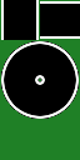
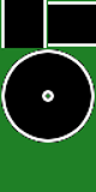
shields up

diff --git a/Main.js b/Main.js
@@ -105,8 +105,9 @@ Main.ROTATION_SPEED = 3.6;
 Main.MAX_FORWARD_SPEED = 2.1;
 Main.LEVEL_WIDTH = 20;
 Main.LEVEL_HEIGHT = 15;
-Main.LEVEL_TILE_WIDTH = 40;
-Main.LEVEL_TILE_HEIGHT = 40;
+Main.LEVEL_TILE_WIDTH = 48;
+Main.LEVEL_TILE_HEIGHT = 48;
+Main.ACCELERATION = 0.3;
 
 Main.STATE_WAIT = 0;
 Main.STATE_LAPS = 1;
@@ -136,22 +137,16 @@ Main.prototype.gameLoop = function(delta) {
     if (this.up.isDown) {
         this.car.play()
 
+        this.car.speed += Main.ACCELERATION;
         if (this.car.speed > this.car.max_forward_speed) {
-            // If we gained speed from some other means
-            // typically collision
-            this.car.speed -= 0.1;
-        } else {
-            this.car.speed += 1.15;
-            if (this.car.speed > this.car.max_forward_speed) {
-                this.car.speed = this.car.max_forward_speed;
-            }
+            this.car.speed = this.car.max_forward_speed;
         }
 
         if (this.left.isDown) {
-            this.car.angle = mod(this.car.angle - this.car.rotation_speed / delta, 360);
+            this.car.angle = mod(this.car.angle - this.car.rotation_speed, 360);
         }
         if (this.right.isDown) {
-            this.car.angle = mod(this.car.angle + this.car.rotation_speed / delta, 360);
+            this.car.angle = mod(this.car.angle + this.car.rotation_speed, 360);
         }
     
     } else {
@@ -173,8 +168,10 @@ Main.prototype.gameLoop = function(delta) {
     });
 
     // brute force collision detection
-    let radius = 8;
+    let radius = 9;
     let radiusSquared = radius*radius;
+    let shieldSquared = (radius+2)*(radius+2);
+    let expectedDistance = radius+radius;
 
     for (let i = 0; i < this.computerCars.length; i++) {
         let carA = this.computerCars[i];
@@ -186,9 +183,9 @@ Main.prototype.gameLoop = function(delta) {
             let dy = carA.y - carB.y;
 
             let distanceSquared = dx*dx + dy*dy;
-            if (distanceSquared < (radiusSquared + radiusSquared)) {
-                // We have a collision
 
+            if (distanceSquared < (shieldSquared + shieldSquared)) {
+                // We have a collision
                 if (carB.bounding_circle == null) {    
                     var graphics = new PIXI.Graphics();
                     graphics.lineStyle(1, 0xffffff, 1);
@@ -204,7 +201,11 @@ Main.prototype.gameLoop = function(delta) {
                     this.stage.addChild(graphics);
                     carA.bounding_circle = graphics;
                 }
+            }
 
+            if (distanceSquared < (radiusSquared + radiusSquared)) {
+                // We have a collision
+    
                 // TODO Add a particle effect here
                 // Assume bounding circles have same size
                 // Then we only have to dvide by 2
@@ -212,19 +213,21 @@ Main.prototype.gameLoop = function(delta) {
                 var cpY = (carA.y + carB.y) / 2;
 
                 var distance = Math.sqrt(distanceSquared);
-                var ratio = distance / (radiusSquared);
+                var delta_distance = (expectedDistance - distance);
+                var ratio =  delta_distance / expectedDistance;
+                ratio = 1;
 
                 // Move them apart
-                carA.x -= distance * ratio * 0.5;
-                carA.y -= distance * ratio * 0.5;
+                newx = carA.x - distance * ratio * 0.5;
+                newy = carA.y - distance * ratio * 0.5;
+                carA.setPos(newx, newy);
 
-                carB.x += distance * ratio * 0.5;
-                carB.y += distance * ratio * 0.5;
-   
-//                let tmp = carB.speed;
-//                carB.speed = carA.speed;
-//                carA.speed = tmp;
-
+                newx = carB.x + distance * ratio * 0.5;
+                newy = carB.y + distance * ratio * 0.5;
+                carB.setPos(newx, newy);
+                
+                carB.speed *= 0.5;
+                carA.speed *= 0.5;
             }
         }    
     }
@@ -286,18 +289,18 @@ Main.prototype.setup = function() {
     this.car.y = Main.LEVEL_TILE_HEIGHT*4;
     this.car.init(this.level);
     this.car.max_forward_speed = Main.MAX_FORWARD_SPEED * 0.5;
-    this.car.rotation_speed = Main.ROTATION_SPEED * 0.5;
+    this.car.rotation_speed = Main.ROTATION_SPEED * 0.9;
     this.app.stage.addChild(this.car)
     this.computerCars.push(this.car);
 
-    for (let i = 0; i < 4; i++) {
+    for (let i = 0; i < 6; i++) {
         let texture_offset = (i % 2) * 4 + 4
         let computer = new ComputerCar(carList.slice(texture_offset,texture_offset+4)); 
         computer.x = Main.LEVEL_TILE_WIDTH*6+Main.LEVEL_TILE_WIDTH/2;
-        computer.y = Main.LEVEL_TILE_HEIGHT*(5+i);
+        computer.y = Main.LEVEL_TILE_HEIGHT*4+(i+1)*32; // car heigh = 32
         computer.init(this.level, 0)
-        computer.max_forward_speed = Main.MAX_FORWARD_SPEED * (Math.random() * 0.1 + 0.9);
-        computer.rotation_speed = Main.ROTATION_SPEED * (Math.random() * 0.1 + 0.9);
+        computer.max_forward_speed = Main.MAX_FORWARD_SPEED * (Math.random() * 0.2 + 0.8);
+        computer.rotation_speed = Main.ROTATION_SPEED * (Math.random() * 0.2 + 0.8);
         this.app.stage.addChild(computer);
         this.computerCars.push(computer);
     }

diff --git a/ComputerCar.js b/ComputerCar.js
@@ -109,7 +109,7 @@ ComputerCar.prototype.init = function(level, target) {
 }
 
 ComputerCar.prototype.update = function() {
-    this.speed += 1.15;
+    this.speed += Main.ACCELERATION;
     if (this.speed > this.max_forward_speed) {
         this.speed = this.max_forward_speed;
     }
